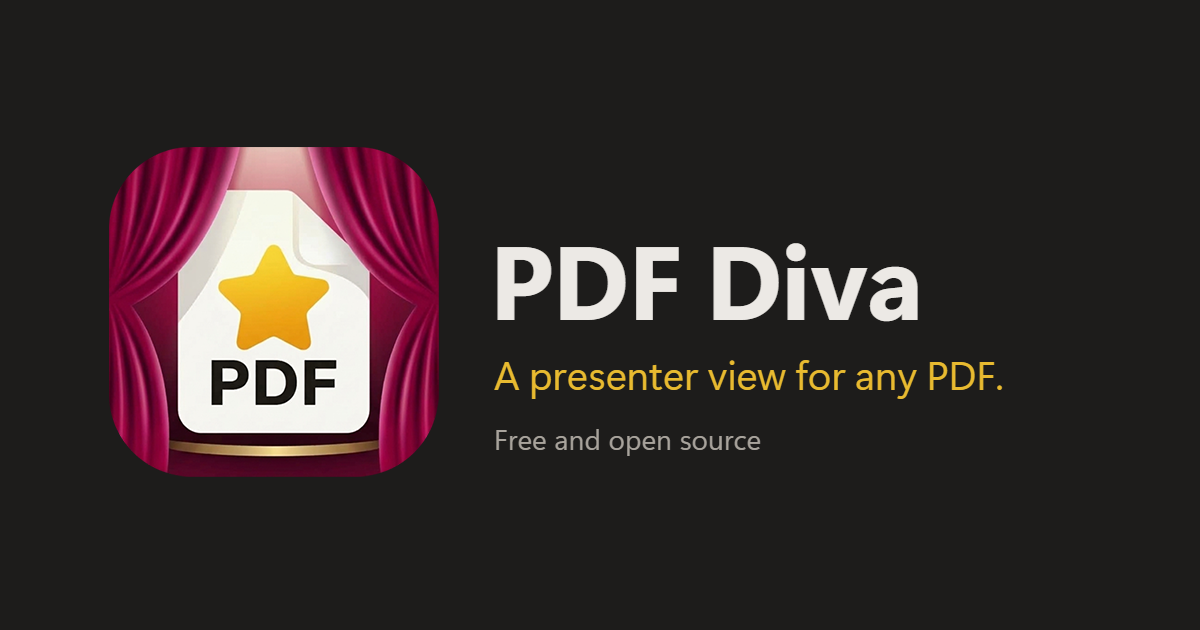
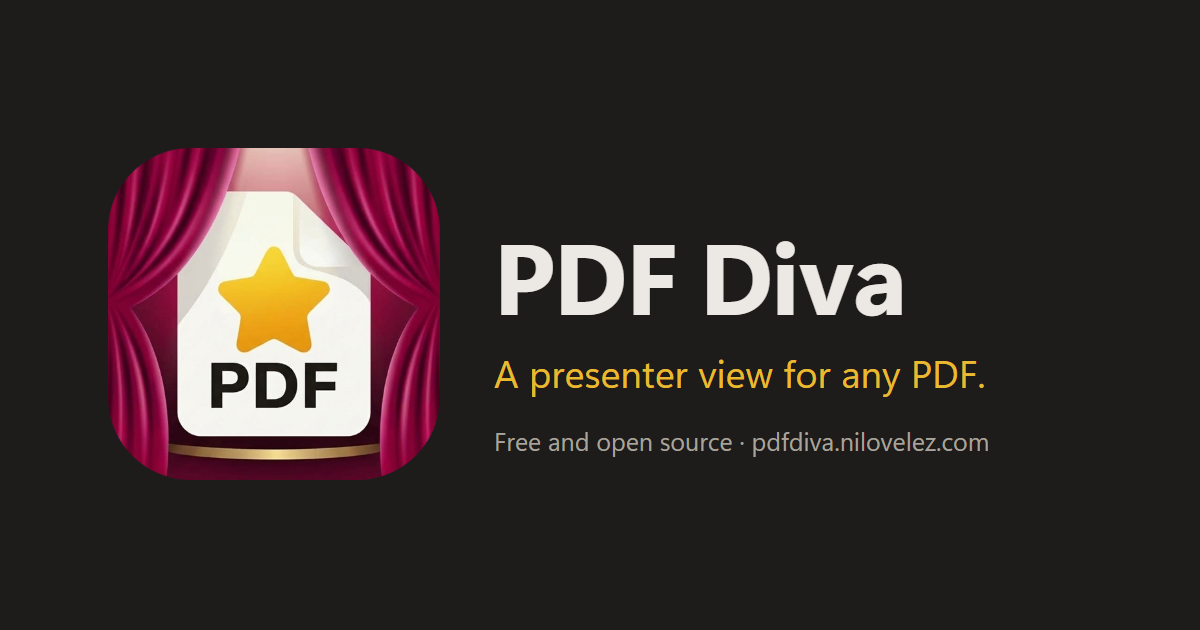
docs: Open Graph image with the website address, and video thumbnail

diff --git a/docs/website.md b/docs/website.md
@@ -52,7 +52,7 @@ The site is served at the custom domain `pdfdiva.nilovelez.com` (since 2026-10-1
 ## Images
 
 - **Icons**: the masters live in `resources/icons/app/` (used by the app, the installer and the Store; do not move them). The web copies are `favicon.ico`, `icon-256.png` and `icon_64.png` (as `icon-64.png`).
-- **`apple-touch-icon.png` (180) and `og.png` (1200×630)**: `og.png` is the dark background `#1D1C1B`, the rounded icon, "PDF Diva" and the tagline. They keep their current design on purpose.
+- **`apple-touch-icon.png` (180) and `og.png` (1200×630)**: `og.png` is the dark background `#1D1C1B`, the rounded icon (`resources/icons/app/icon-512.png`), "PDF Diva", the tagline and "Free and open source · pdfdiva.nilovelez.com", in Segoe UI with the site's dark colors. The same design at 1920×1080 is the video thumbnail, `press/videos/pdf_diva_promo.png`. They keep their current design on purpose.
 - **`star-icon.png`**: the small star next to "PDF Diva" in the header.
 - **`ms-store-badge-light.svg` / `ms-store-badge-dark.svg`**: Microsoft's official "Download from the Microsoft Store" badge (en-US), in the hero and the closing section, one per theme (`.only-light` / `.only-dark`), as tall as the buttons next to it. Microsoft's asset, used under its badge guidelines (see `THIRD-PARTY-NOTICES.md`). One edit on purpose: its border uses the site's `--line` colour (`#DDD9D3` light, `#3C3A37` dark) at 0.8 units, which is 1 px at the 55 px height used, so it looks like the buttons next to it. The buttons (`.btn`) have 6 px corners to match the badge's.
 - **Screenshots**: `screenshot-light.webp` and `screenshot-dark.webp` are the speaker view of version 1.3.0 at 1920×1080 (a laptop at 150% scaling), in English: the light one presents *The Fuchsia Hour*, the dark one *The Gold Hour* (sample PDFs we own). The originals are in the shared folder on the NAS, `Z:\pdf-diva\capturas-1.3.0\en\` (`3-speaker-light.png` and `5-speaker-dark.png`); the same folder has the welcome screen, the reader and "Configure displays", in English and Spanish. They were converted to WebP at full resolution, quality 92, using the canvas of the project's own Electron (`canvas.toDataURL('image/webp', 0.92)`); any WebP encoder works. Keep the `width` and `height` attributes in `index.html` in sync with the files.
